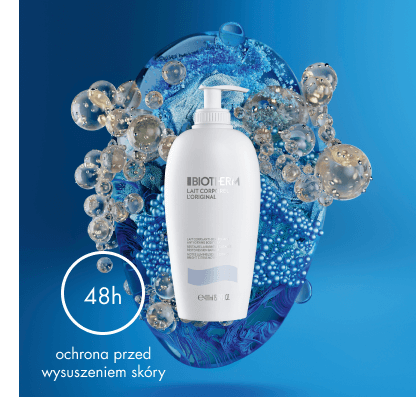
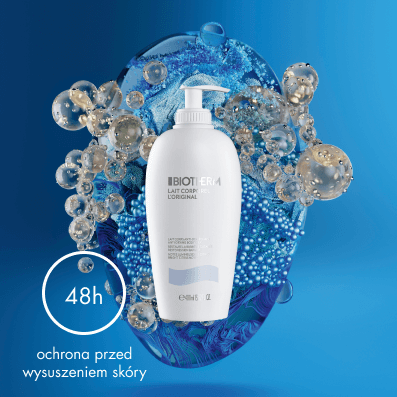
fix: cards styles

diff --git a/style.css b/style.css
@@ -138,6 +138,7 @@ body {
   flex-wrap: wrap;
   max-width: 800px;
   justify-content: center;
+  align-items: center;
   flex-direction: column;
   gap: 30px;
   margin: 0 auto;
@@ -616,6 +617,7 @@ body {
   }
   #es-biotherm.es-biotherm .es-category-2__items {
     flex-direction: row;
+    align-items: flex-start;
     gap: 10px;
   }
   #es-biotherm.es-biotherm .es-category-2__subtitle {
@@ -708,7 +710,7 @@ body {
   }
   #es-biotherm.es-biotherm .es-category-2__image {
     max-width: 395px;
-    max-height: 366px;
+    max-height: 395px;
   }
   #es-biotherm.es-biotherm .es-cross__single {
     max-width: 225px;

diff --git a/style.scss b/style.scss
@@ -164,6 +164,7 @@ body {
       flex-wrap: wrap;
       max-width: 800px;
       justify-content: center;
+      align-items: center;
       flex-direction: column;
       gap: 30px;
       margin: 0 auto;
@@ -664,6 +665,7 @@ body {
     .es-category-2 {
       &__items {
         flex-direction: row;
+        align-items: flex-start;
         gap: 10px;
       }
 
@@ -792,7 +794,7 @@ body {
 
       &__image {
         max-width: 395px;
-        max-height: 366px;
+        max-height: 395px;
       }
     }
 
